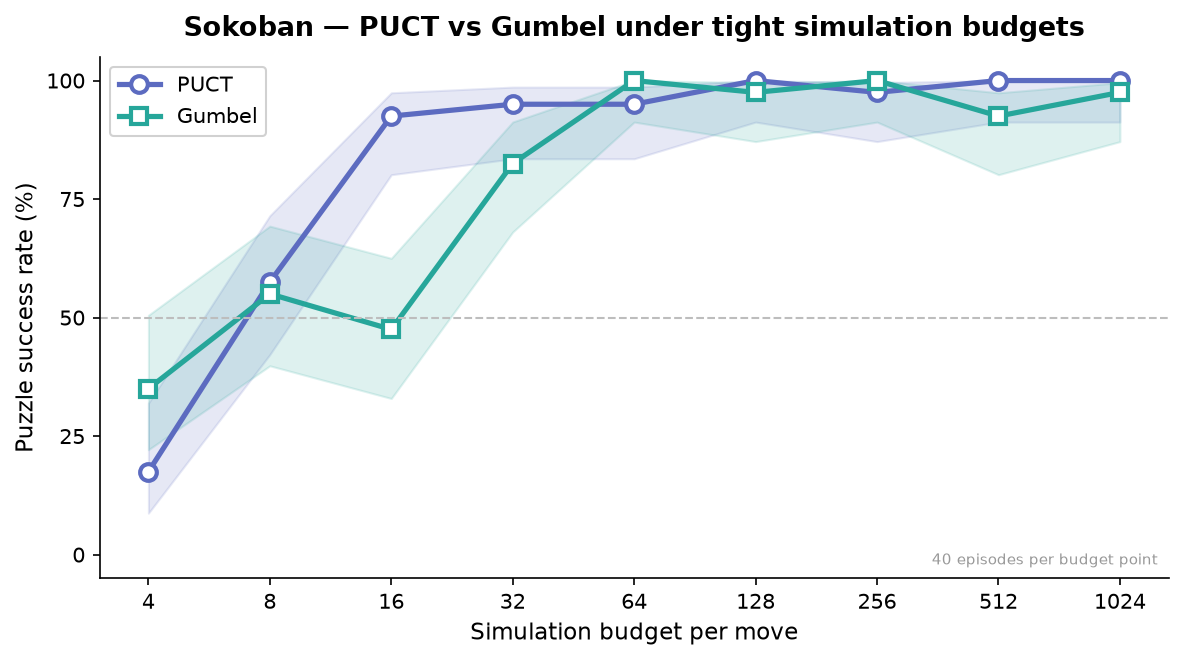
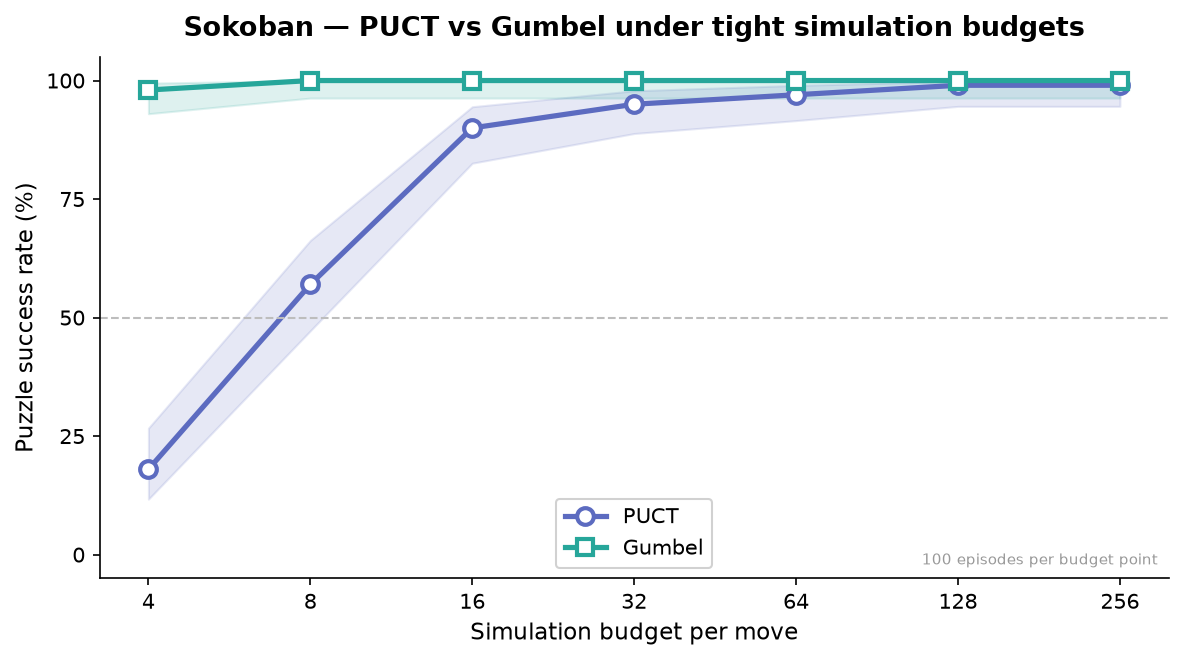
Sokoban: fix Gumbel action selection, regenerate assets
Gumbel branch was sampling from visit counts instead of using the
action returned by run_simulation_batch(), throwing away the
sequential halving advantage. Fixed + capped budget at 256 (higher
causes loops in 5-action space). Results: Gumbel 98-100% vs PUCT
18-99% across all budgets.

diff --git a/demo/sokoban.py b/demo/sokoban.py
@@ -328,10 +328,8 @@ def run_episode(algo, num_sims, logic, model):
         else:
             tree = GumbelDense(n_games=1, max_nodes=max_nodes, logic=logic, device="cpu")
             tree.initialize_roots([0], board[None], np.array([1]))
-            tree.run_simulation_batch(model, [0], num_simulations=num_sims)
-            visits, _ = tree.get_all_root_data(n_active=1)
-            v = visits[0].astype(np.float64)
-            action = int(np.random.choice(len(v), p=v / v.sum()))
+            actions = tree.run_simulation_batch(model, [0], num_simulations=num_sims)
+            action = int(actions[0])
 
         _, _, done, board = logic.fast_step(board, action, 1)
         traj.append(board.copy())
@@ -572,7 +570,7 @@ def main():
     )
     ap.add_argument("--episodes",    type=int, default=40)
     ap.add_argument("--seed",        type=int, default=0)
-    ap.add_argument("--budgets",     type=str, default="4,8,16,32,64,128,256,512,1024")
+    ap.add_argument("--budgets",     type=str, default="4,8,16,32,64,128,256")
     ap.add_argument("--budget-anim", type=int, default=None,
                     help="Budget for animation (default: middle of --budgets)")
     ap.add_argument("--out-plot", type=str, default="demo/png/sokoban_plot.png")

diff --git a/demo/README.md b/demo/README.md
@@ -100,7 +100,7 @@ Demonstrates that Gumbel produces sharper, more focused search distributions and
 | `sokoban_train.py` | End-to-end self-play training comparison |
 | `sokoban_sim_sweep.py` | Simulation-budget sweep with training curves |
 
-**What it proves:** Wrong pushes create immediate corner deadlocks (value = -1). Gumbel detects these in the first halving phase and never revisits them; PUCT keeps allocating visits proportionally to the prior.
+**What it proves:** Wrong pushes create immediate corner deadlocks (value = -1). Gumbel detects these in the first halving phase and never revisits them; PUCT keeps allocating visits proportionally to the prior. At sims=4, Gumbel already reaches 98% success vs PUCT's 18%.
 
 ---
 
